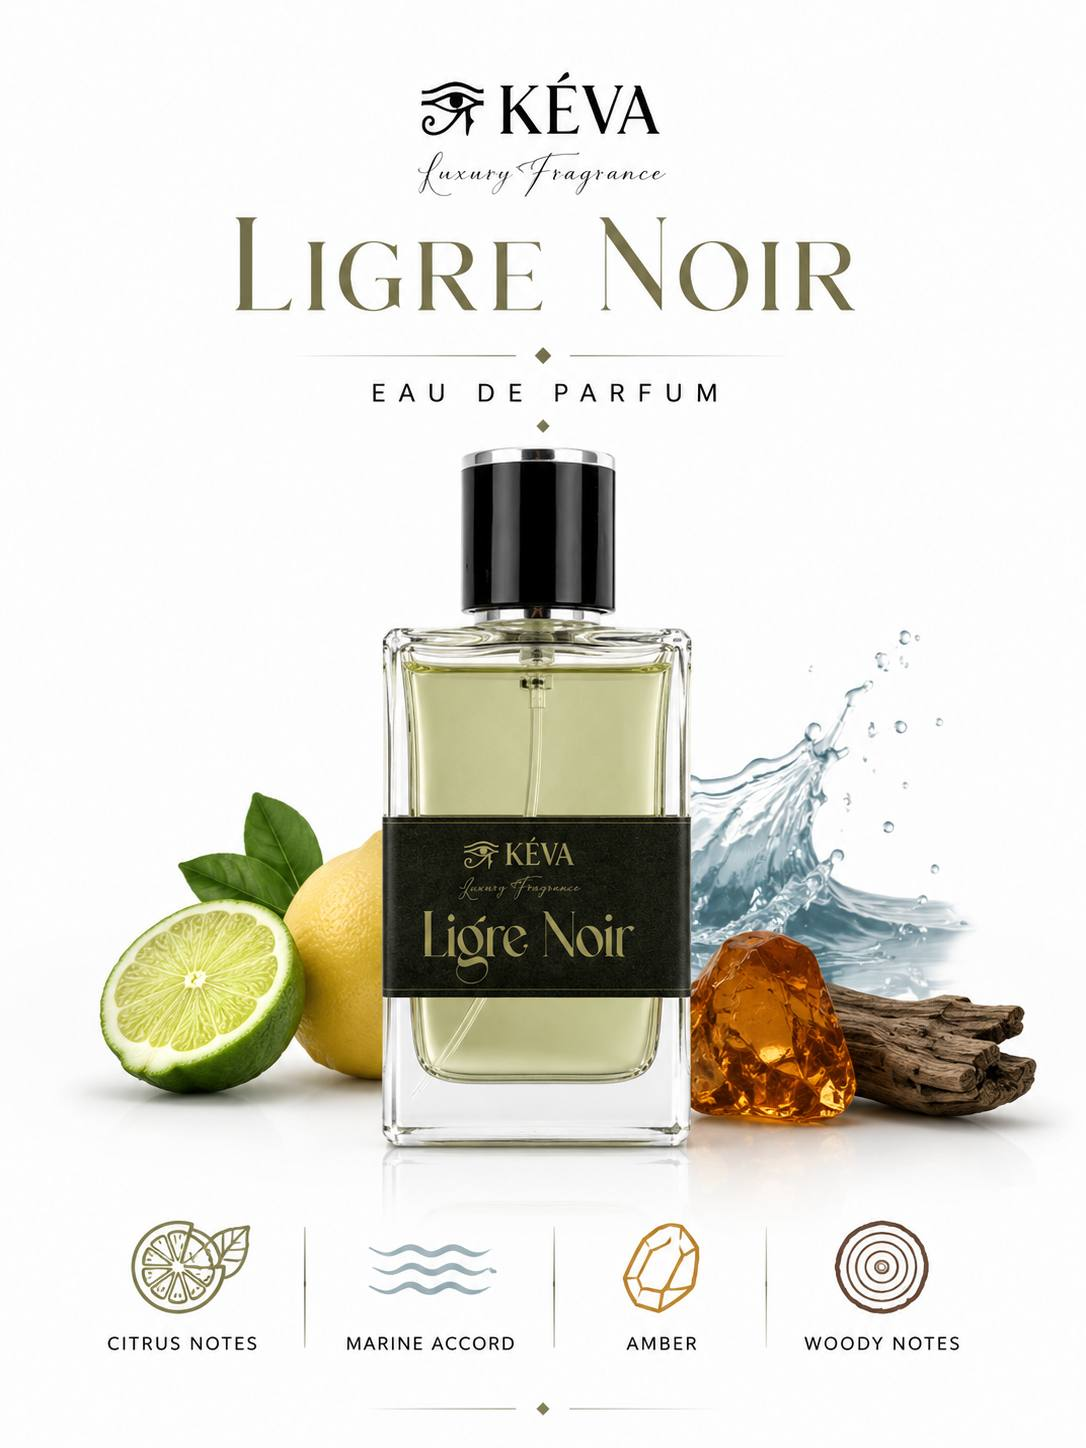
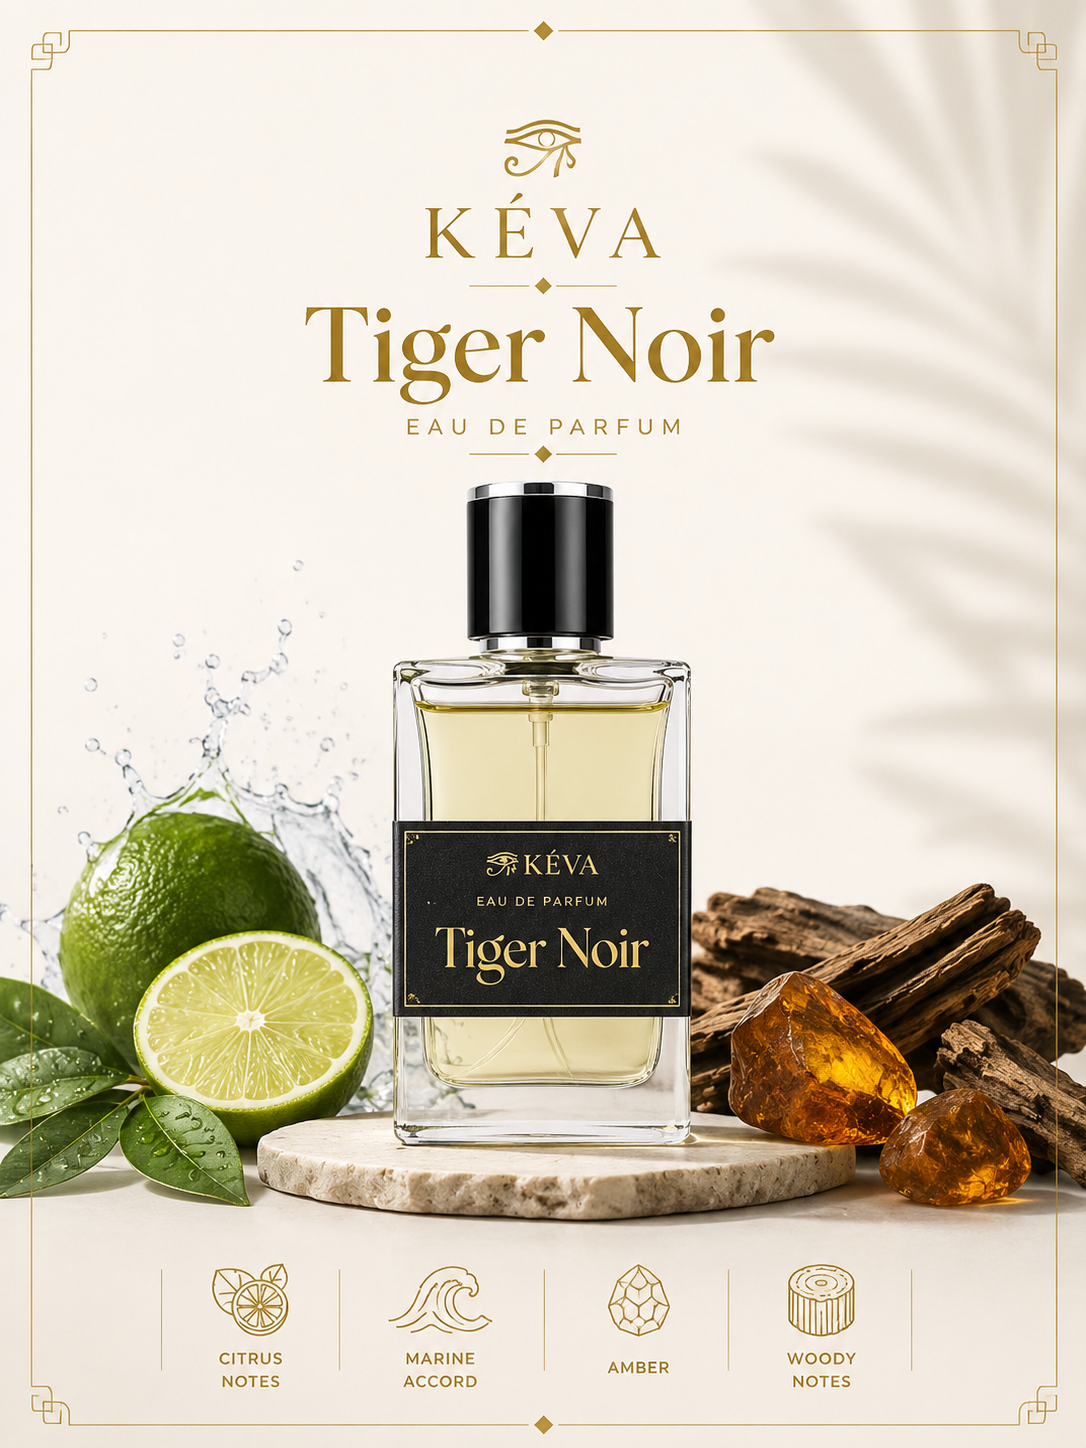
Update project

diff --git a/women.html b/women.html
@@ -155,9 +155,33 @@
       </div>
 
       <div class="product-card" data-price="399" data-prices='{"30ml":399,"50ml":649,"100ml":1099}'>
-        <img src="photo/Miss Gold.jpg" alt="Miss Gold"/>
+        <img src="photo/Marshmallow.jpg" alt="Marshmallow"/>
         <div class="card-body">
-          <h3>Miss Gold</h3>
+          <h3>Marshmallow</h3>
+          <p>Sweet musk fragrance.</p>
+
+          <div class="card-size-row">
+            <label>Size</label>
+            <select aria-label="Size">
+              <option value="30ml">30ml</option>
+              <option value="50ml">50ml</option>
+              <option value="100ml">100ml</option>
+            </select>
+          </div>
+
+          
+
+          <div class="card-footer">
+            <div class="price">399 <small>EGP</small></div>
+            <button class="add-btn" onclick="openOrderModal(this)">Order Now</button>
+              <button class="bulk-order-btn" onclick="addToBulkOrder(this)">Add to My Order</button>
+          </div>
+        </div>
+      </div>
+      <div class="product-card" data-price="399" data-prices='{"30ml":399,"50ml":649,"100ml":1099}'>
+        <img src="photo/Soft fire.png" alt="Soft fire"/>
+        <div class="card-body">
+          <h3>Soft fire</h3>
           <p>Luxury fruity caramel scent.</p>
 
           <div class="card-size-row">

diff --git a/men.html b/men.html
@@ -155,7 +155,30 @@
           </div>
         </div>
       </div>
+  <div class="product-card" data-price="399" data-prices='{"30ml":399,"50ml":649,"100ml":1099}'>
+        <img src="\photo men\Vulcain.png" alt="Vulcain"/>
+        <div class="card-body">
+          <h3>Vulcain</h3>
+          <p>Spicy, floral and woody notes.</p>
 
+          <div class="card-size-row">
+            <label>Size</label>
+            <select aria-label="Size">
+              <option value="30ml">30ml</option>
+              <option value="50ml">50ml</option>
+              <option value="100ml">100ml</option>
+            </select>
+          </div>
+
+        
+
+          <div class="card-footer">
+            <div class="price">399 <small>EGP</small></div>
+            <button class="add-btn" onclick="openOrderModal(this)">Order Now</button>
+              <button class="bulk-order-btn" onclick="addToBulkOrder(this)">Add to My Order</button>
+          </div>
+        </div>
+      </div>
     </div>
   </section>
 

diff --git a/script.js b/script.js
@@ -412,7 +412,8 @@ const PRODUCT_DETAILS = {
     inspired: 'A spicy amber masculine signature',
     ingredients: 'Alcohol Denat, Parfum, Aqua, Coumarin, Linalool, Cinnamal, Benzyl Benzoate, Eugenol, BHT',
     description: 'A bold and intense fragrance inspired by sweet spicy warmth and deep amber richness, creating a strong masculine signature with an addictive trail.'
-  }
+  },
+  'Soft fire': { image: 'photo/Soft fire.png', prices: { '30ml': 399, '50ml': 649, '100ml': 1099 }, collection: 'Luxury fruity caramel scent' } 
 };
 
 
@@ -428,7 +429,10 @@ const PRODUCT_CATALOG = {
   'Oud Majesty': { image: 'photo men/OUD MAJESTY.png', prices: { '30ml': 399, '50ml': 649, '100ml': 1099 }, collection: 'Mysterious oud luxury' },
   'Elixir': { image: 'photo men/Elixir.jpg', prices: { '30ml': 399, '50ml': 649, '100ml': 1099 }, collection: 'Powerful woody amber' },
   'Ligre Noir': { image: 'photo men/Ligre Noir.jpg', prices: { '30ml': 399, '50ml': 649, '100ml': 1099 }, collection: 'Citrus marine woods' },
-  'Kofian': { image: 'photo men/Kofian.jpg', prices: { '30ml': 399, '50ml': 649, '100ml': 1099 }, collection: 'Coffee vanilla musk' }
+  'Kofian': { image: 'photo men/Kofian.jpg', prices: { '30ml': 399, '50ml': 649, '100ml': 1099 }, collection: 'Coffee vanilla musk' },
+  'Soft fire': { image: 'photo/Soft fire.png', prices: { '30ml': 399, '50ml': 649, '100ml': 1099 }, collection: 'Luxury fruity caramel scent' },
+  'vulcain': { image: 'photo men/Vulcain.png', prices: { '30ml': 399, '50ml': 649, '100ml': 1099 }, collection: 'Spicy floral woody fragrance' }
+
 };
 function getProductName(card) {
   const title = card?.querySelector('h3');